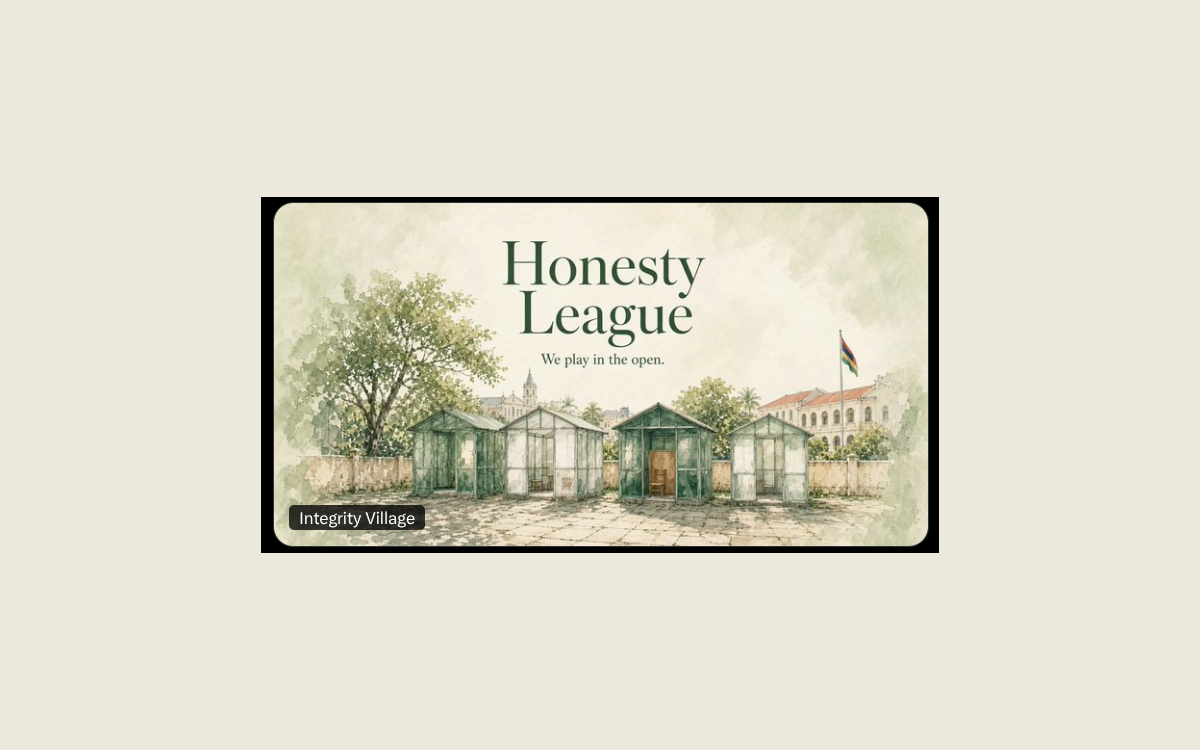
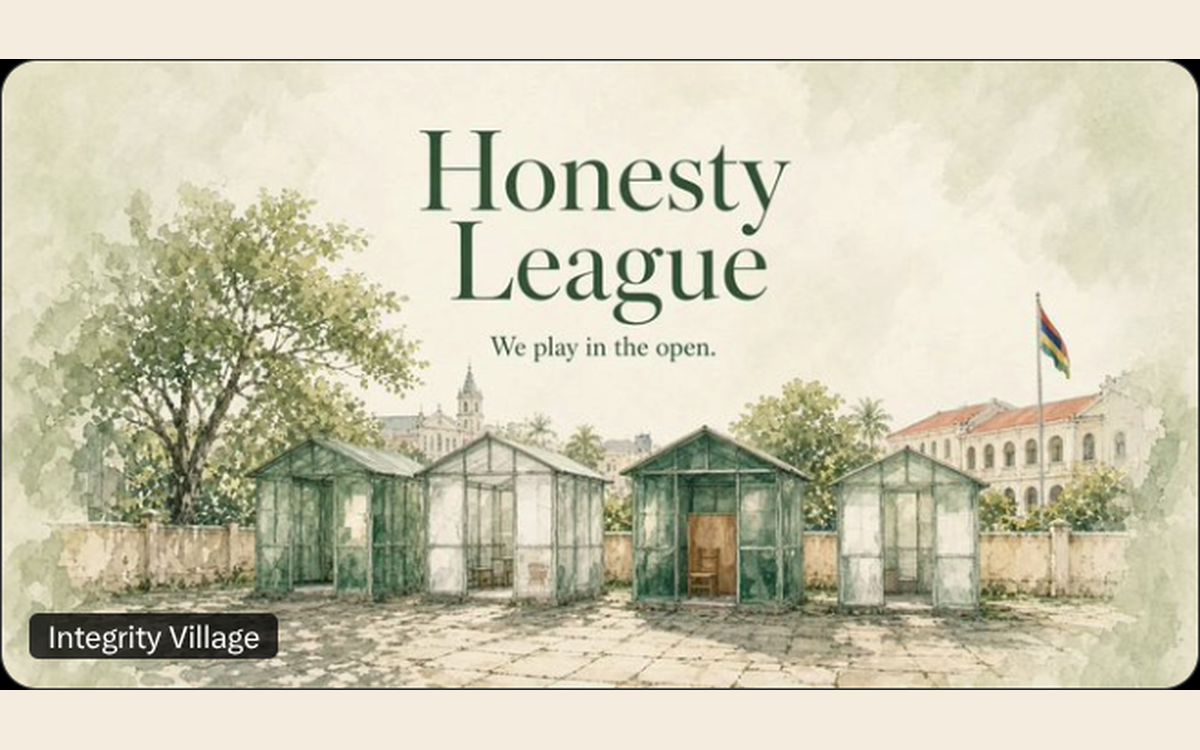
Remove the notify box and fit the proof images.
The XL Highway Travel homepage fills its card. The Honesty League picture fits both Integrity Village cards.

diff --git a/accueil.html b/accueil.html
@@ -175,19 +175,6 @@
             </div>
           </article>
         </div>
-
-        <div class="notify">
-          <h3>Soyez prévenu quand les listes de sanctions sont mises à jour, ou qu’un nouvel outil sort.</h3>
-          <form id="tool-notify" class="notify-form" action="https://formspree.io/f/TODO" method="post" novalidate>
-            <div>
-              <label for="notify-email">E-mail</label>
-              <input id="notify-email" name="email" type="email" autocomplete="email" inputmode="email" required aria-describedby="notify-privacy" />
-            </div>
-            <button class="btn btn-primary" type="submit">Me prévenir</button>
-            <p id="notify-error" class="notify-error" role="alert" hidden></p>
-          </form>
-          <p id="notify-privacy">Cette adresse sert seulement à ces avis. <a href="confidentialite.html">Confidentialité</a>. Le formulaire partira quand un identifiant Formspree remplacera TODO. En attendant, <a href="mailto:support@mkweli.tech?subject=Avis%20sur%20les%20outils%20Mkweli">écrivez-nous</a>.</p>
-        </div>
       </div>
     </section>
 
@@ -248,7 +235,7 @@
         </header>
         <div class="pillar-grid">
           <article class="pillar">
-            <img class="shot" src="assets/screenshots/xl.png" alt="XL Highway Travel" width="1200" height="750" />
+            <img class="shot" src="assets/screenshots/xl.png" alt="Page d’accueil de XL Highway Travel" width="1200" height="750" />
             <h3>XL Highway Travel</h3>
             <p>Une agence de voyage à Durban. Le site a été refait et reste à jour : offres, trajets, notes de conformité et façon de demander un renseignement. Les visiteurs lisent les mots de l’agence.</p>
             <p class="price-note">Résultat : <!-- TODO: un résultat concret --></p>

diff --git a/index.html b/index.html
@@ -178,19 +178,6 @@
             </div>
           </article>
         </div>
-
-        <div class="notify">
-          <h3>Get notified when the sanctions lists update or a new tool ships.</h3>
-          <form id="tool-notify" class="notify-form" action="https://formspree.io/f/TODO" method="post" novalidate>
-            <div>
-              <label for="notify-email">Email</label>
-              <input id="notify-email" name="email" type="email" autocomplete="email" inputmode="email" required aria-describedby="notify-privacy" />
-            </div>
-            <button class="btn btn-primary" type="submit">Notify me</button>
-            <p id="notify-error" class="notify-error" role="alert" hidden></p>
-          </form>
-          <p id="notify-privacy">We use this address only for those notices. <a href="privacy.html">Privacy</a>. The form posts when a Formspree id replaces TODO. Until then, <a href="mailto:support@mkweli.tech?subject=Mkweli%20tool%20updates">email us</a>.</p>
-        </div>
       </div>
     </section>
 
@@ -251,7 +238,7 @@
         </header>
         <div class="pillar-grid">
           <article class="pillar">
-            <img class="shot" src="assets/screenshots/xl.png" alt="XL Highway Travel" width="1200" height="750" />
+            <img class="shot" src="assets/screenshots/xl.png" alt="XL Highway Travel homepage" width="1200" height="750" />
             <h3>XL Highway Travel</h3>
             <p>A Durban travel agency. The site is rebuilt and kept up to date: offers, routes, compliance notes, and how to enquire. Visitors see the agency’s own words.</p>
             <p class="price-note">Outcome: <!-- TODO: one concrete result --></p>
